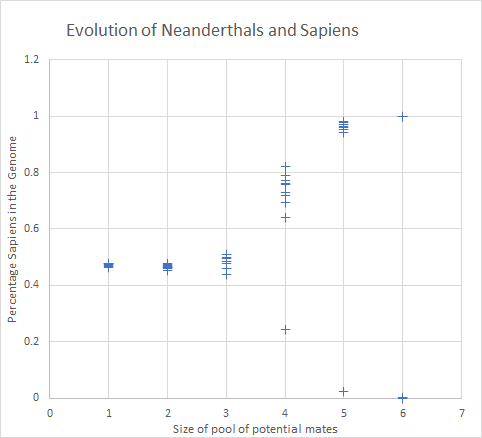
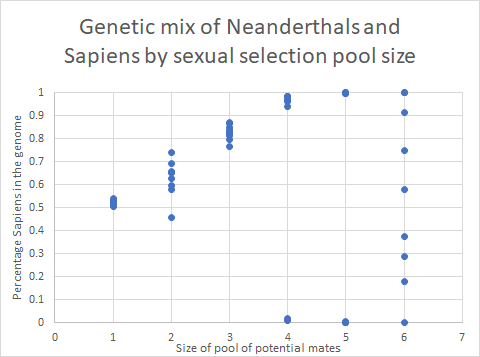
Fix bug with breeding cycle
Was accidentally creating a boy for every girl. Fixing this changes the results slightly, though not significantly

diff --git a/evolve-with-male-selection.py b/evolve-with-male-selection.py
@@ -42,12 +42,21 @@ def one_breeding_cycle(male_sapiens, male_neanders, females, pool_size):
     boy_neanders = []
     girls = []
 
-    # Each female tries to mate. We assume that all females mate with at most one
-    # partner at a time, so we iterate through females rather than males. Males on
-    # the other hand may have zero, one or many partners in any cycle. 
-    for female in females:
+    # Loop until the desired proportion of females are left who have not reproduced
+    # or miscarried. We default to 50%, which is the proportion that would be left
+    # if each male selected one female on average.
+    PROPORTION_FEMALES_LEFT = 0.5
+    females_left = int(len(females) * PROPORTION_FEMALES_LEFT)
+    females_to_reproduce = females[:]
+    while len(females_to_reproduce) > females_left:
+        # Randomly pick a male by using find_partner with a pool size of 1.
+        # female is ignored, so arbitrarily pick 0.5
+        (is_sapiens, male) = find_partner(0.5, male_sapiens, male_neanders, 1)
+
+        # Allow that male to pick a female
+        female = find_and_remove_female(male, females_to_reproduce, pool_size)
+
         boy = random.randint(0, 1) == 0 # assume equal probability of boy or girl
-        (is_sapiens, male) = find_partner(female, male_sapiens, male_neanders, pool_size)
         mix = (male + female) * 0.5
         if not boy:
             # girls never miscarry (at least in this simulation)
@@ -101,9 +110,8 @@ def find_partner(female, male_sapiens, male_neanders, pool_size):
     best_male = 0.0          # in practice this is always overridden
     best_is_sapiens = False  # this is also overridden
 
-    # Adjust the female, pushing her to one or other extreme.
-    exactly_half = female == 0.5
-    adj_female = 0.0 if female < 0.5 else 1.0
+    # experimentally adjust the female, pushing her to one or other extreme
+    adj_female = 0.0 if female <= 0.5 else 1.0
 
     for _ in range(pool_size):
         pick = random.randint(0, n_total - 1)
@@ -113,10 +121,6 @@ def find_partner(female, male_sapiens, male_neanders, pool_size):
         else:
             male = male_neanders[pick - n_sapiens]
 
-        # if the female is exactly half, no point choosing
-        if exactly_half:
-            return (is_sapiens, male)
-
         distance = abs(male - adj_female)   # L infinite norm
         if distance < best_distance:
             best_distance = distance
@@ -125,6 +129,46 @@ def find_partner(female, male_sapiens, male_neanders, pool_size):
     
     assert(best_distance <= 1.0)
     return (best_is_sapiens, best_male)
+
+def find_and_remove_female(male, females, pool_size):
+    ''' Finds and removes a female reproductive partner.
+   
+    Args:
+        male (float): the sapiensness of the male who is looking for a partner
+        females (List[float]): list of females. The one we find is removed.
+        pool_size (int): how many females to consider when finding the best 
+
+    Returns:
+        float: represents the sapiensness of the female found.
+
+    '''
+
+    n_females = len(females)
+    assert(n_females > 0)
+
+    # We assume that the genes for fancying sapiens generally go with sapiens
+    # genes and vice versa. To generalise, we try to minimize the genetic distance
+    # (L_inf norm) between the male and female. We take a number of draws and pick
+    # the best. The number of draws makes a critical difference to the outcome.
+
+    best_distance = 1.1      # the maximum possible is 1
+    best_pick = 0            # always overridden
+
+    # experimentally adjust the male, pushing him to one or other extreme
+    adj_male = 0.0 if male <= 0.5 else 1.0
+
+    for _ in range(pool_size):
+        pick = random.randint(0, n_females - 1)
+        female = females[pick]
+
+        distance = abs(female - adj_male)   # L infinite norm
+        if distance < best_distance:
+            best_distance = distance
+            best_pick = pick
+    
+    # return and delete the picked female
+    assert(best_distance <= 1.0)
+    return females.pop(best_pick)
 
 def miscarry_with_neanderthal(female):
     '''Will sex between a neanderthal male and the given female result in
@@ -177,57 +221,55 @@ def one_culling_cycle(male_sapiens, male_neanders, females):
         None: The input lists are modified in situ.
     '''
 
-    # Experimentally kill off males and females at random, rather than
-    # worrying about individual population totals
-    if False:
-
-        print("Before cull: sapiens={}, neanders={}, females={}".format(len(male_sapiens), len(male_neanders), len(females)))
-
-        MAX_POPULATION = 2000
-        while True:
-            n_sapiens = len(male_sapiens)
-            n_neanders = len(male_neanders)
-            n_females = len(females)
-            n_population = n_sapiens + n_neanders + n_females
-
-            if n_population < MAX_POPULATION:
-                print("After cull: sapiens={}, neanders={}, females={}".format(len(male_sapiens), len(male_neanders), len(females)))
-                return
-            
-            pick = random.randint(0, n_population - 1)
-            if pick < n_sapiens:
-                del male_sapiens[pick]
-            elif pick < n_sapiens + n_neanders:
-                del male_neanders[pick - n_sapiens]
-            else:
-                del females[pick - n_sapiens - n_neanders]
-
     # For now, we keep things really simple, and just keep the total
     # males and females to some maximum, by killing the oldest. We also
     # kill some fixed number each year from each population, just to avoid
     # steady state solutions where nobody ever dies.
     MALE_MAX_POPULATION = 10000
     FEMALE_MAX_POPULATION = 10000
-    ALWAYS_KILL = 10
+    ALWAYS_KILL = 0
 
-    n_sapiens = len(male_sapiens)
-    n_neanders = len(male_neanders)
-    n_males = n_sapiens + n_neanders
+    # method 1 -- kill the oldest
+    if False:
+        n_sapiens = len(male_sapiens)
+        n_neanders = len(male_neanders)
+        n_males = n_sapiens + n_neanders
 
-    # Kill excess old women
-    n_females = len(females)
-    kill_females = max(n_females - FEMALE_MAX_POPULATION - ALWAYS_KILL, 0) + ALWAYS_KILL
-    del females[0:kill_females]
+        # Kill excess old women
+        n_females = len(females)
+        kill_females = max(n_females - FEMALE_MAX_POPULATION - ALWAYS_KILL, 0) + ALWAYS_KILL
+        del females[0:kill_females]
 
-    # Kill excess old men. We have to be careful here, because we
-    # want to equally kill neanderthals and sapiens according to
-    # the proportions in their populations. (Not totally sure this
-    # is fair, as the ages may be different.)
-    kill = max(n_males - MALE_MAX_POPULATION - ALWAYS_KILL, 0)
-    kill_neanders = (kill * n_neanders) // n_males + ALWAYS_KILL
-    kill_sapiens = (kill * n_sapiens) // n_males + ALWAYS_KILL
-    del male_neanders[0:kill_neanders]
-    del male_sapiens[0:kill_sapiens]
+        # Kill excess old men. We have to be careful here, because we
+        # want to equally kill neanderthals and sapiens according to
+        # the proportions in their populations. (Not totally sure this
+        # is fair, as the ages may be different.)
+        kill = max(n_males - MALE_MAX_POPULATION - ALWAYS_KILL, 0)
+        kill_neanders = (kill * n_neanders) // n_males + ALWAYS_KILL
+        kill_sapiens = (kill * n_sapiens) // n_males + ALWAYS_KILL
+        del male_neanders[0:kill_neanders]
+        del male_sapiens[0:kill_sapiens]
+
+    # method 2: kill at random
+    else:
+        # Kill excess women
+        n_females = len(females)
+        kill_females = max(n_females - FEMALE_MAX_POPULATION - ALWAYS_KILL, 0) + ALWAYS_KILL
+        for _ in range(kill_females):
+            kill = random.randint(0, len(females) - 1)
+            del females[kill]
+
+        # Kill excess men
+        n_sapiens = len(male_sapiens)
+        n_neanders = len(male_neanders)
+        n_males = n_sapiens + n_neanders
+        kill_males = max(n_males - MALE_MAX_POPULATION - ALWAYS_KILL, 0) + ALWAYS_KILL
+        for _ in range(kill_males):
+            kill = random.randint(0, len(male_sapiens) + len(male_neanders) - 1)
+            if kill < len(male_sapiens):
+                del male_sapiens[kill]
+            else:
+                del male_neanders[kill - len(male_sapiens)]
 
 def repeated_cycles(male_sapiens, male_neanders, females, pool_size, max_cycles, extra_cycles):
     ''' Repeatedly alternates breeding and culling cycles.
@@ -255,7 +297,15 @@ def repeated_cycles(male_sapiens, male_neanders, females, pool_size, max_cycles,
 
     for cycle in range(max_cycles):
         one_breeding_cycle(male_sapiens, male_neanders, females, pool_size)
+        #print("breed")
+        #print(male_sapiens)
+        #print(male_neanders)
+        #print(females)
         one_culling_cycle(male_sapiens, male_neanders, females)
+        #print("cull")
+        #print(male_sapiens)
+        #print(male_neanders)
+        #print(females)
 
         # No point continuing long if there are no neanderthal y-chromosomes left.
         # The population stabilises very quickly
@@ -306,12 +356,12 @@ if __name__ == '__main__':
     print_header()
 
     for _ in range(10):   # repeated tests with different MonteCarlo draws   
-        for pool_size in range(1, 7):    # repeat with different pool sizes
+        for pool_size in range(1, 6):    # repeat with different pool sizes
 
-            male_sapiens = [1.0] * 200
-            male_neanders = [0.0] * 200
-            females = [1.0, 0.0] * 200
-            cycles = repeated_cycles(male_sapiens, male_neanders, females, pool_size, 100, 40)
+            male_sapiens = [1.0] * 1000
+            male_neanders = [0.0] * 1000
+            females = [1.0, 0.0] * 1000
+            cycles = repeated_cycles(male_sapiens, male_neanders, females, pool_size, 200, 40)
             print_stats(male_sapiens, male_neanders, females, pool_size, cycles)
 
  
